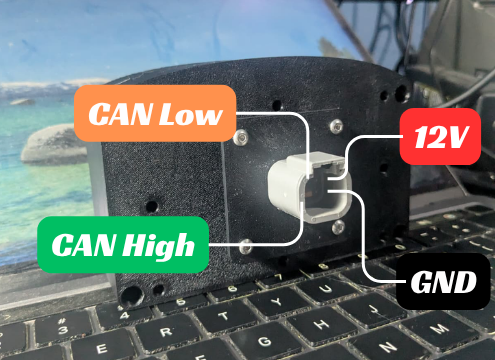
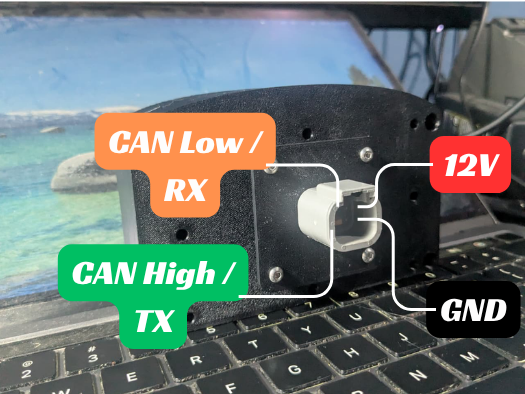
fix race dash docs

diff --git a/docs/mazduino-racedash.md b/docs/mazduino-racedash.md
@@ -15,7 +15,7 @@ Kedua varian menggunakan cara konfigurasi yang sama melalui WiFi dan browser, se
 
 - Layar digital menampilkan RPM, gear indicator, kecepatan, dan data sensor lain secara real-time
 - Konfigurasi tampilan dashboard via WiFi langsung dari browser HP/laptop, tanpa aplikasi tambahan
-- Mendukung komunikasi ke ECU melalui **CAN Bus** atau **Serial**, tergantung permintaan saat order (khusus varian JST 4 Pin — varian DTM4 hanya CAN Bus). ECU berbasis **Speeduino** wajib menggunakan mode Serial, sedangkan **rusEFI**, **Haltech**, dan **MaxxECU** menggunakan mode CAN Bus
+- Mendukung komunikasi ke ECU melalui **CAN Bus** atau **Serial**, tergantung permintaan saat order dan ECU yang digunakan. ECU berbasis **Speeduino** wajib menggunakan mode Serial (berlaku untuk varian JST 4 Pin maupun DTM4), sedangkan **rusEFI**, **Haltech**, dan **MaxxECU** menggunakan mode CAN Bus
 
 ## Racedash 3.5" (Konektor JST 4 Pin)
 
@@ -67,7 +67,7 @@ Selain konektor JST 4 Pin, board Racedash 3.5" juga memiliki pin header internal
 
 ![Tampak belakang Mazduino Racedash DTM4](img/dash/racedash-dtm4-back.png)
 
-Varian ini menggunakan konektor **DTM4 (Deutsch DTM 4 Pin)** yang tahan getaran dan cuaca, cocok untuk aplikasi racing. Komunikasi ke ECU dilakukan melalui **CAN Bus**.
+Varian ini menggunakan konektor **DTM4 (Deutsch DTM 4 Pin)** yang tahan getaran dan cuaca, cocok untuk aplikasi racing. Komunikasi ke ECU dilakukan melalui **CAN Bus**, kecuali untuk ECU **Speeduino** yang menggunakan mode **Serial** (secondary serial dari Arduino Mega).
 
 ### Konektor DTM4 / 4 Pin
 
@@ -83,8 +83,13 @@ Varian ini menggunakan konektor **DTM4 (Deutsch DTM 4 Pin)** yang tahan getaran 
 | :---- | :---- |
 | 1 | 12V Power Supply |
 | 2 | Ground |
-| 3 | CAN High |
-| 4 | CAN Low |
+| 3 | CAN High / TX |
+| 4 | CAN Low / RX |
+
+**Catatan:**
+
+- Pin 3 dan 4 berfungsi sebagai **CAN High/CAN Low** untuk ECU **rusEFI**, **Haltech**, dan **MaxxECU** (mode CAN Bus).
+- Khusus untuk ECU **Speeduino**, pin 3 dan 4 berfungsi sebagai **TX/RX Serial** — Speeduino tidak memiliki CAN Bus native, sehingga data diambil melalui **secondary serial (Serial3) Arduino Mega**.
 
 ## Update Firmware (OTA)
 
